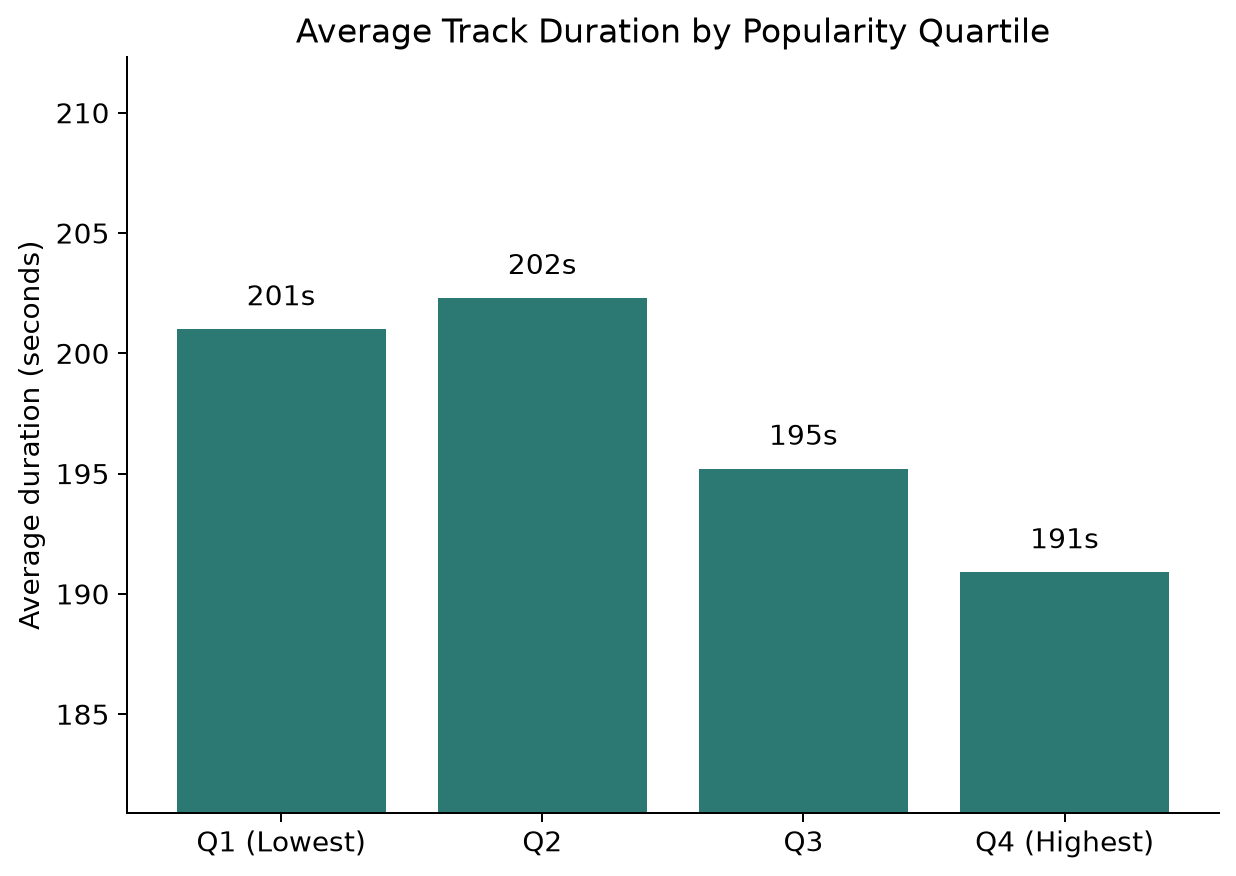
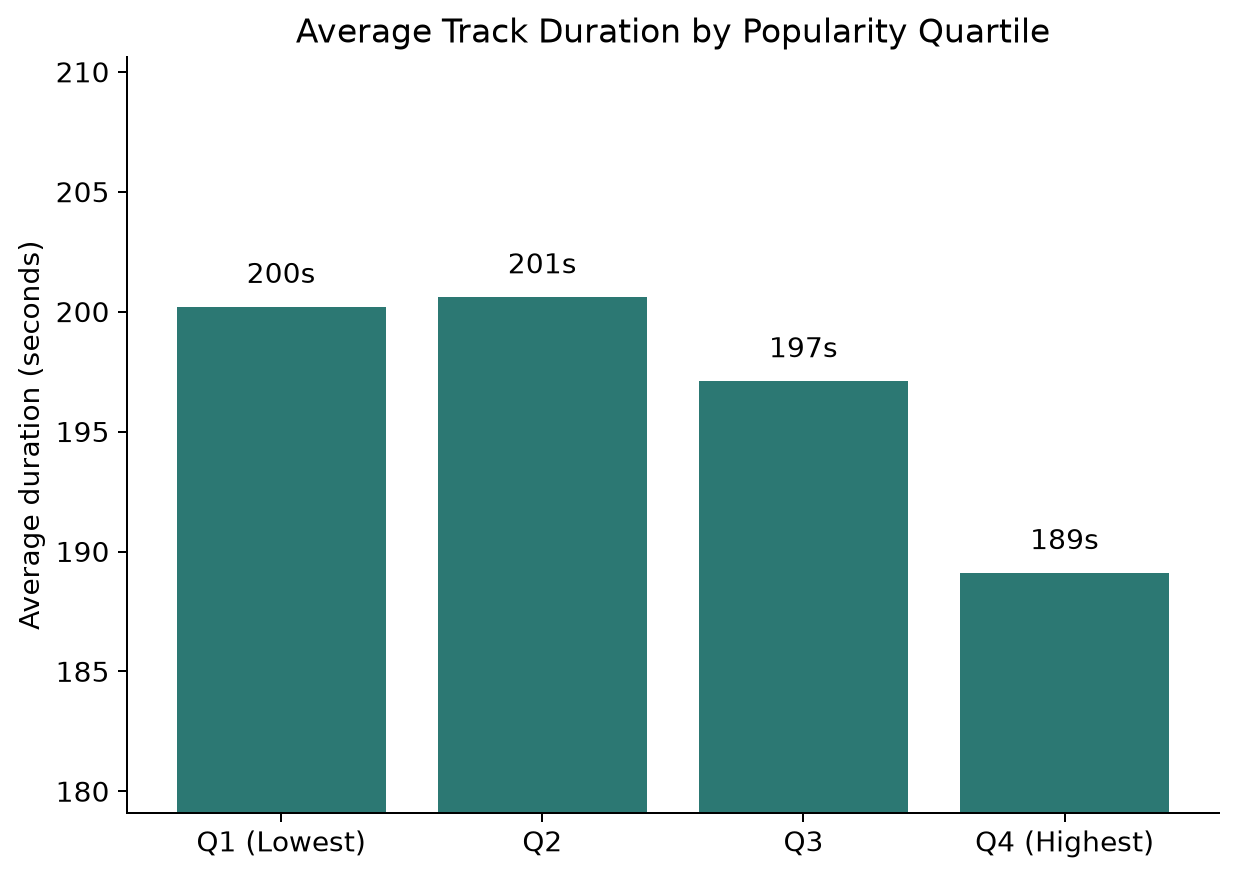
fix: preserve popularity ties in quartile analysis

diff --git a/src/data_prep.py b/src/data_prep.py
@@ -184,11 +184,24 @@ def clean(df: pd.DataFrame) -> pd.DataFrame:
     out["duration_bucket"] = out["duration_sec"].map(_duration_bucket)
     out["album_size_bucket"] = out["total_tracks"].map(_album_size_bucket)
 
-    # Stable quartile labels. Duplicated popularity values can make qcut edges
-    # ambiguous, so rank first to guarantee four bins deterministically.
-    ranks = out["popularity"].rank(method="first")
-    out["popularity_bucket"] = pd.qcut(
-        ranks, 4, labels=["Q1 (Lowest)", "Q2", "Q3", "Q4 (Highest)"]
+    # Tie-preserving popularity quartiles.
+    # Quantile boundaries are learned from the raw popularity scores so equal
+    # scores are never split across buckets merely because of source-row order.
+    popularity = pd.to_numeric(out["popularity"], errors="raise")
+    q25, q50, q75 = popularity.quantile([0.25, 0.50, 0.75]).tolist()
+
+    if len({q25, q50, q75}) != 3:
+        raise ValueError(
+            "Popularity quartile boundaries are not distinct; "
+            "four tie-preserving buckets cannot be formed."
+        )
+
+    out["popularity_bucket"] = pd.cut(
+        popularity,
+        bins=[-np.inf, q25, q50, q75, np.inf],
+        labels=["Q1 (Lowest)", "Q2", "Q3", "Q4 (Highest)"],
+        include_lowest=True,
+        right=True,
     )
 
     out["snapshot_seq"] = _reconstruct_snapshots(out)

diff --git a/tests/test_data_prep.py b/tests/test_data_prep.py
@@ -83,3 +83,26 @@ def test_multi_artist_credit_is_split():
 
 def test_title_normalization_is_case_insensitive():
     assert normalize_song_title("  Song   Name ") == "song name"
+
+def test_popularity_quartiles_preserve_ties(prepared):
+    _, clean, *_ = prepared
+    splits = (
+        clean.groupby("popularity", observed=True)["popularity_bucket"]
+        .nunique()
+    )
+    assert int(splits.max()) == 1
+
+
+def test_popularity_quartile_counts(prepared):
+    _, clean, *_ = prepared
+    got = (
+        clean["popularity_bucket"]
+        .value_counts(sort=False)
+        .to_dict()
+    )
+    assert got == {
+        "Q1 (Lowest)": 7229,
+        "Q2": 8255,
+        "Q3": 6755,
+        "Q4 (Highest)": 5561,
+    }

diff --git a/tests/test_analytics.py b/tests/test_analytics.py
@@ -110,3 +110,13 @@ def test_snapshot_effective_artists_matches_exp_entropy(prepared):
         - np.exp(snapshot["shannon_entropy"])
     ).abs().max()
     assert float(error) < 1e-12
+
+def test_duration_by_popularity_quartile_regression(prepared):
+    _, clean, *_ = prepared
+    got = an.duration_vs_popularity(clean).to_dict()
+    assert got == {
+        "Q1 (Lowest)": 200.2,
+        "Q2": 200.6,
+        "Q3": 197.1,
+        "Q4 (Highest)": 189.1,
+    }
